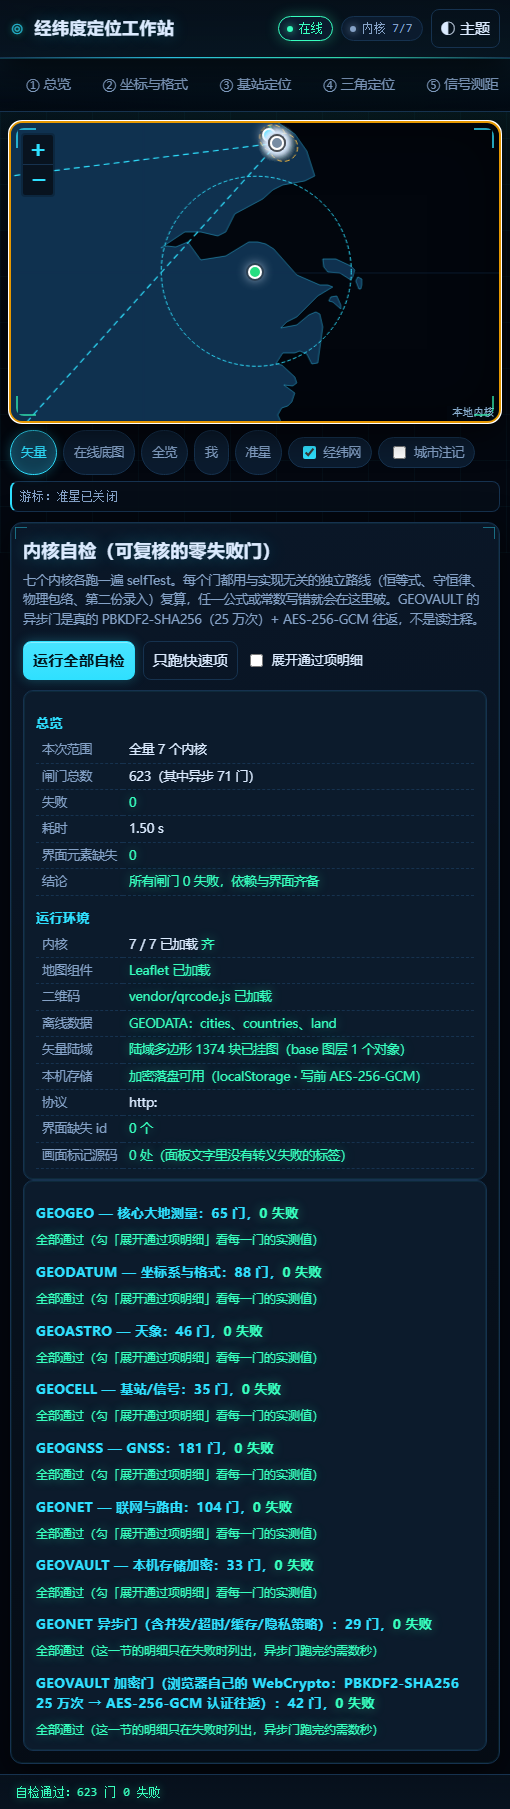
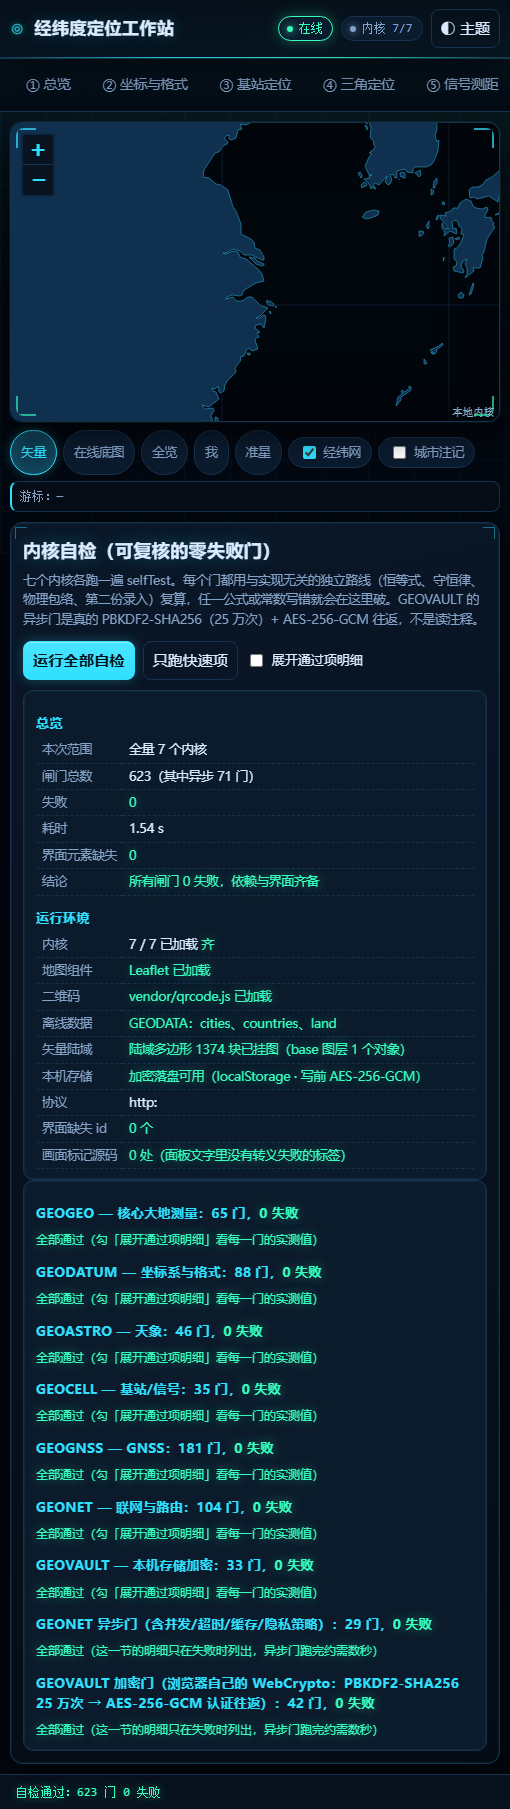
fix(⑪): 异步门没跑完就不许宣布「自检通过」——托管页实测抓到 581/623 的假终态
在受控浏览器里每 200 ms 采一次 #stSummary，同一页同一次点击给出两个总数：2.31 s 时
面板自己写着「自检通过：581 门 0 失败」（绿的、带数字），42 道 GEOVAULT WebCrypto 门
在 5.13 s 才落地凑满 623。根因是 finalStatus() 只知道 failed==0，不知道还有门没回来。
现在 pendingAsync 记录还差几组：组数没归零时，状态条只报进度、结论行不下结论、总数行
标成临时值。回环 http 与 file:// 两条路径复测：552（还剩 2 组）→ 581（还剩 1 组）→
623/71，提前宣布通过的采样 0 条。第 70 道包闸门钉住这个分支顺序（CI 无浏览器，所以钉
的是形状，行为证据是 §9.3 的采样时间线）。说明书 §3 ⑪、§8.6、§8.8、§9.3、§9.4、§9.5、
§11.26 同步，⑨ 自检截图按新代码重拍。

diff --git a/app/ui-app.js b/app/ui-app.js
@@ -3123,22 +3123,32 @@
     });
     var env = envReport();
     var asyncAdd = { gates: 0, bad: 0 };
+    // 异步门是一组一组回来的。在全部回来之前，这一屏不许说「自检通过」：
+    // 托管页实测 2.3 s 时 GEONET 的 29 门已落地、GEOVAULT 的 42 门还在 WebCrypto 里跑，
+    // 而状态条已经写成「自检通过：581 门 0 失败」——一个看起来是终态、其实是半程的数字。
+    var pendingAsync = 0;
     function summaryHtml() {
       var g = total + asyncAdd.gates, f = failed + asyncAdd.bad;
       var ok = f === 0 && env.bad === 0;
       var skipped = ENGINES.filter(function (e) { return quick && !e.quick; }).map(function (e) { return e.ns; });
       return h4('总览') + kv([
         ['本次范围', quick ? '快速：' + picked.map(function (e) { return e.ns; }).join('、') : '全量 ' + ENGINES.length + ' 个内核'],
-        ['闸门总数', String(g) + (asyncAdd.gates ? '（其中异步 ' + asyncAdd.gates + ' 门）' : '')],
+        ['闸门总数', String(g) + (asyncAdd.gates ? '（其中异步 ' + asyncAdd.gates + ' 门）' : '')
+          + (pendingAsync ? warn('（异步还剩 ' + pendingAsync + ' 组在跑，这个数还会涨）') : '')],
         ['失败', f ? bad(String(f)) : good('0')],
         ['耗时', fmt((Date.now() - t0) / 1000, 2) + ' s'],
         ['界面元素缺失', env.miss ? warn(env.miss + ' 个 id 找不到') : good('0')],
-        ['结论', ok ? good('所有闸门 0 失败，依赖与界面齐备') : bad('存在失败项，见下方明细')]
+        ['结论', pendingAsync ? warn('异步闸门还剩 ' + pendingAsync + ' 组在跑，现在还不是终局——跑完这一行会自己改口')
+          : (ok ? good('所有闸门 0 失败，依赖与界面齐备') : bad('存在失败项，见下方明细'))]
       ]) + env.html + (skipped.length ? note(warn('快速模式跳过了 ' + skipped.join('、') + '；出具验收结论请跑全量。')) : '');
     }
     function finalStatus() {
       var f = failed + asyncAdd.bad;
       var ok = f === 0 && env.bad === 0;
+      if (pendingAsync) {
+        status('内核异步闸门进行中：已跑 ' + (total + asyncAdd.gates) + ' 门，还剩 ' + pendingAsync + ' 组，失败 ' + f, 'busy');
+        return;
+      }
       status(ok ? '自检通过：' + (total + asyncAdd.gates) + ' 门 0 失败' : '自检失败 ' + f + ' 门', ok ? 'ok' : 'bad');
     }
     put('stSummary', summaryHtml());
@@ -3158,7 +3168,9 @@
         jobs.push({ ns: 'GEOVAULT', title: 'GEOVAULT 加密门（浏览器自己的 WebCrypto：PBKDF2-SHA256 ' + vIter + ' 万次 → AES-256-GCM 认证往返）' });
       }
       if (jobs.length) {
-        status('内核异步闸门进行中（' + jobs.map(function (j) { return j.ns; }).join('、') + '）…', 'busy');
+        pendingAsync = jobs.length;
+        put('stSummary', summaryHtml());
+        finalStatus();
         var chain = Promise.resolve();
         jobs.forEach(function (j) {
           chain = chain.then(function () {
@@ -3170,6 +3182,7 @@
               var arr = list || [];
               var b = arr.filter(function (x) { return !x.pass; });
               asyncAdd.gates += arr.length; asyncAdd.bad += b.length;
+              pendingAsync--;
               var el = $('stDetail');
               if (el) el.innerHTML += '<h4>' + esc(j.title + '：' + arr.length + ' 门，') +
                 (b.length ? bad(b.length + ' 失败') : good('0 失败')) + '</h4>' +

diff --git a/tests/check-package.py b/tests/check-package.py
@@ -716,6 +716,25 @@ check("打包工具的展示路径同盘与跨盘都只出字符串（CI windows
       and _same.endswith("geo-full.zip") and "\\" not in _same,
       "仓库内 → %s；异盘符 → %s" % (_same, _cross))
 
+# ⑪ 的「闸门总数 / 结论 / 状态条」在异步门还在跑的时候，曾经先说过一句
+# 「自检通过：581 门 0 失败」——托管页实测时间线：2.31 s 时 GEONET 的 29 门已落地、
+# GEOVAULT 的 42 门还在 WebCrypto 的 PBKDF2 里，5.13 s 才凑满 623。那半程的绿看起来就是终局，
+# 谁都会在 581 上签验收。这条钉的是分支顺序：宣布通过的字面量必须排在 pendingAsync 守卫之后，
+# 守卫自己还得先被 jobs 计数、并在每组异步门落地时递减，否则守卫会永远为真、变成另一种假。
+_ui = read_bytes("app/ui-app.js").decode("utf-8", "replace")
+_fs_at = _ui.find("function finalStatus")
+_fs = _ui[_fs_at:_ui.find("put('stSummary', summaryHtml());", _fs_at)] if _fs_at >= 0 else ""
+_guard_at = _fs.find("if (pendingAsync)")
+_pass_at = _fs.find("自检通过")
+_set_at = _ui.find("pendingAsync = jobs.length")
+_dec_at = _ui.find("pendingAsync--")
+_conc_at = _ui.find("['结论', pendingAsync")
+check("⑪ 异步门未落地前不宣布「自检通过」，且守卫自己会被置位与递减",
+      _fs and 0 <= _guard_at < _pass_at and 0 <= _set_at < _dec_at and _conc_at >= 0,
+      "finalStatus 取到 %d 字符；守卫在第 %d 字符、「自检通过」在第 %d 字符（要前者更小）；"
+      "置位在第 %d 递减在第 %d（要前者更小）；结论行守卫 %s"
+      % (len(_fs), _guard_at, _pass_at, _set_at, _dec_at, "有" if _conc_at >= 0 else "无"))
+
 _pp_rows = {}
 for _line in manual.split("\n"):
     _c = [x.strip() for x in _line.split("|")]

diff --git a/README.md b/README.md
@@ -81,7 +81,7 @@ metadata.
 ```bash
 node tests/run-all.mjs --with-server --with-bridge   # kernels 623 + Python bridge 110 (+1) + PowerShell bridge 202
 python tests/bridge-parity.py                        # two bridges at once, 41 live cases
-python tests/check-package.py                        # package inspection, 69 items
+python tests/check-package.py                        # package inspection, 70 items
 ```
 
 The sixth layer is panel ⑪ itself, in a real DOM with Leaflet mounted: **623 gates / 0 failures**.
